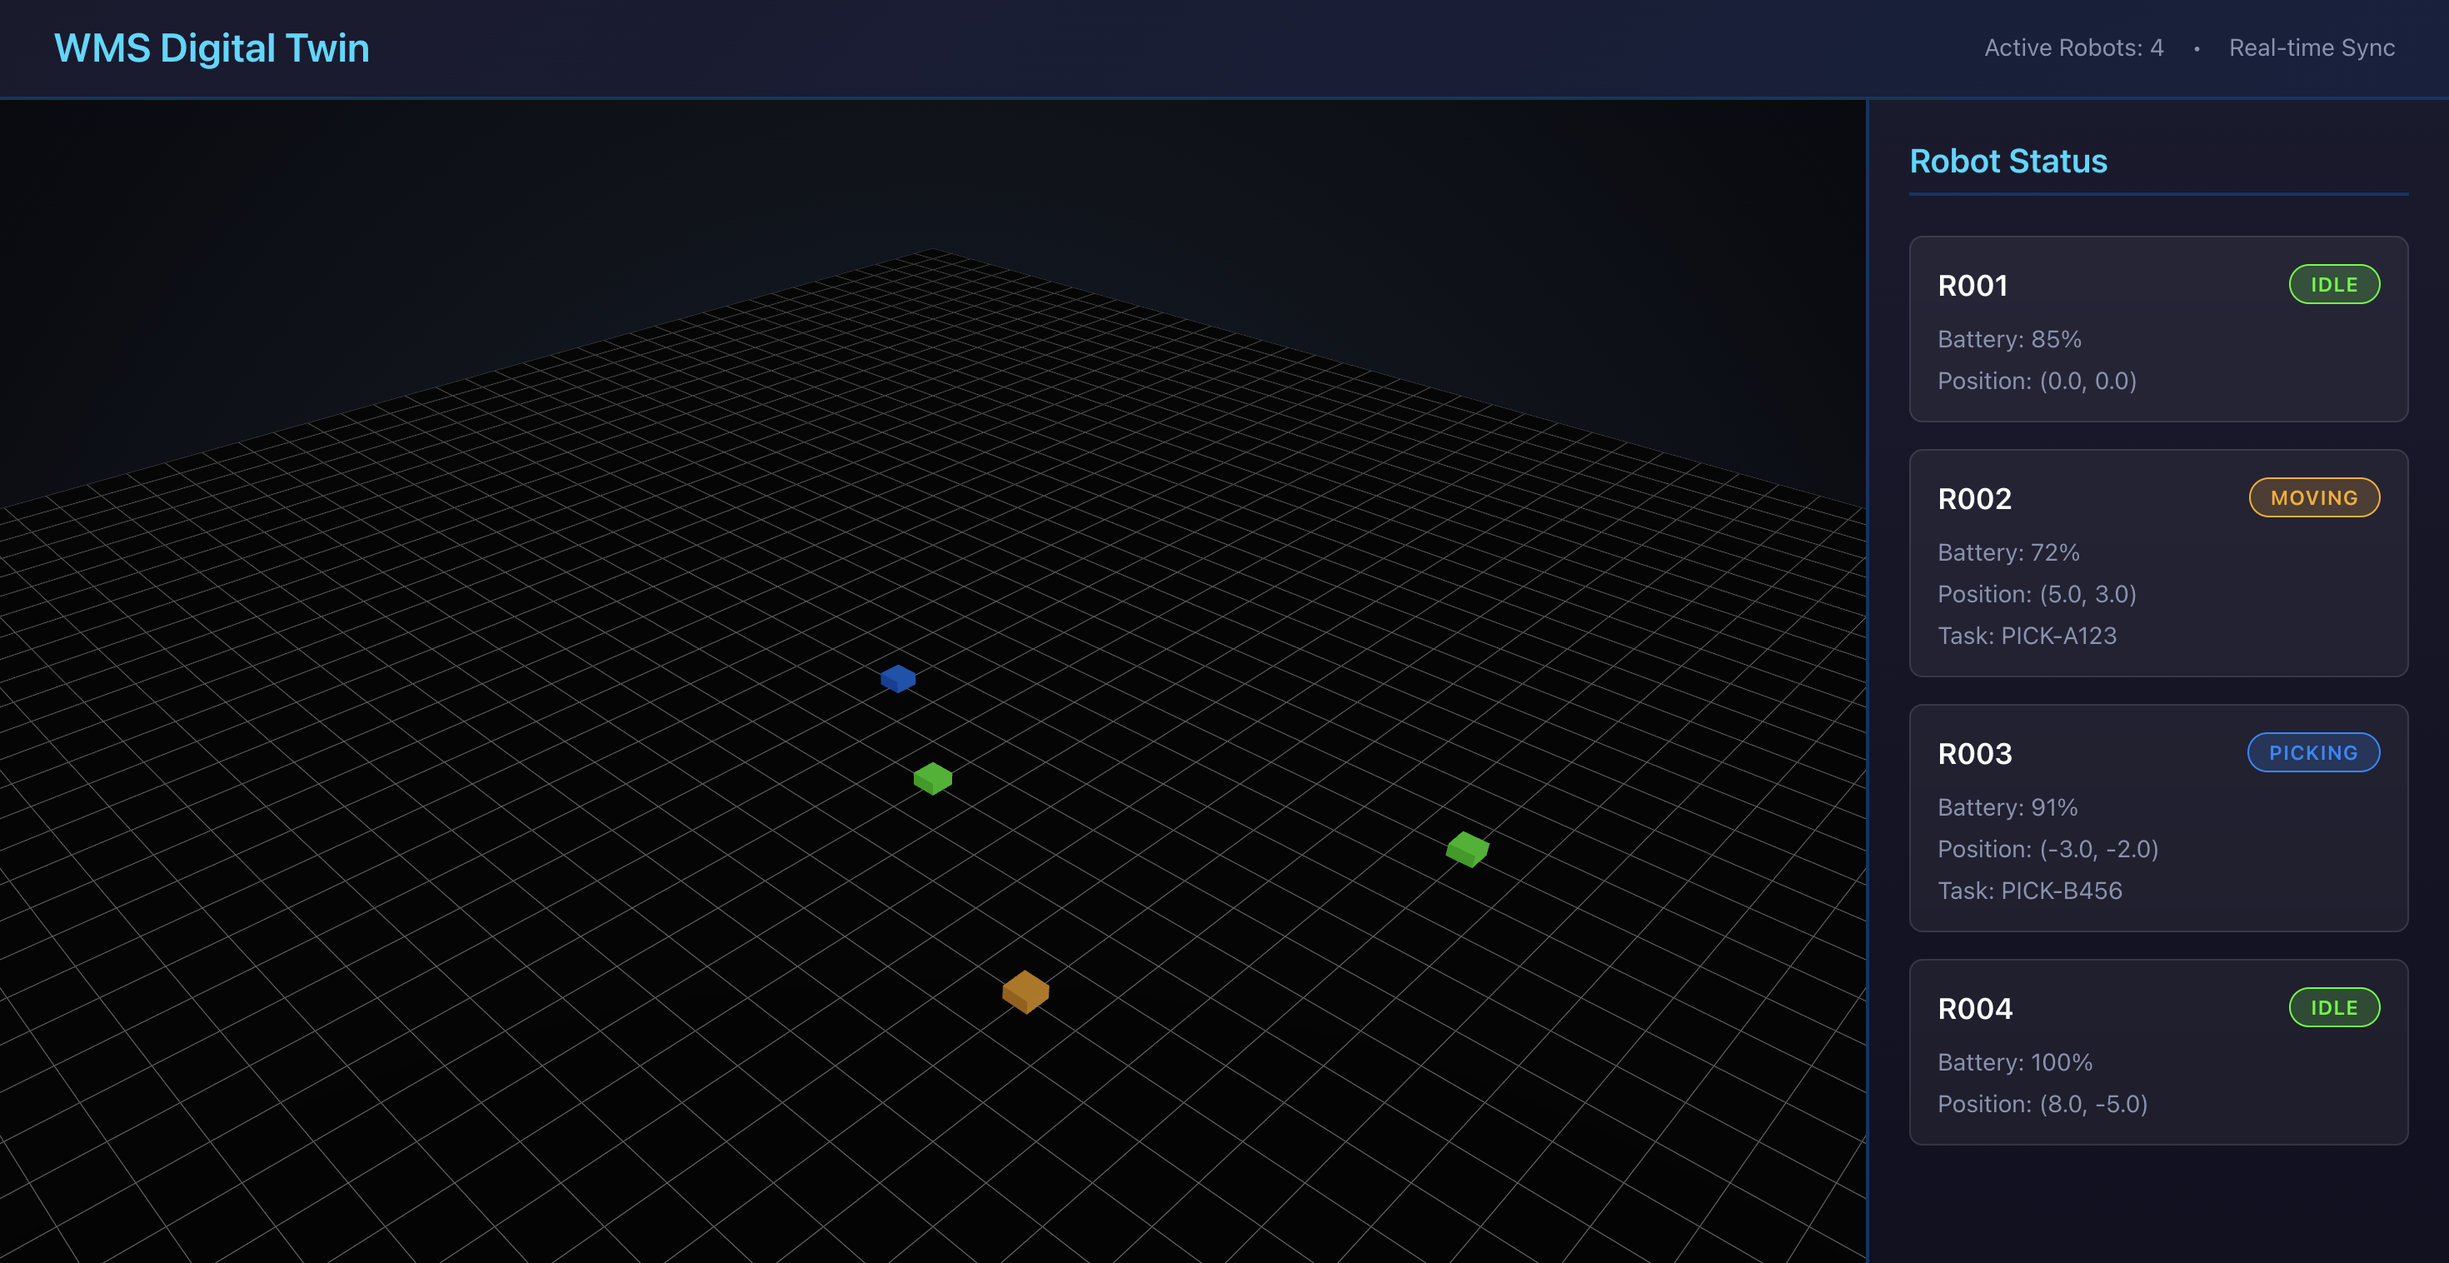
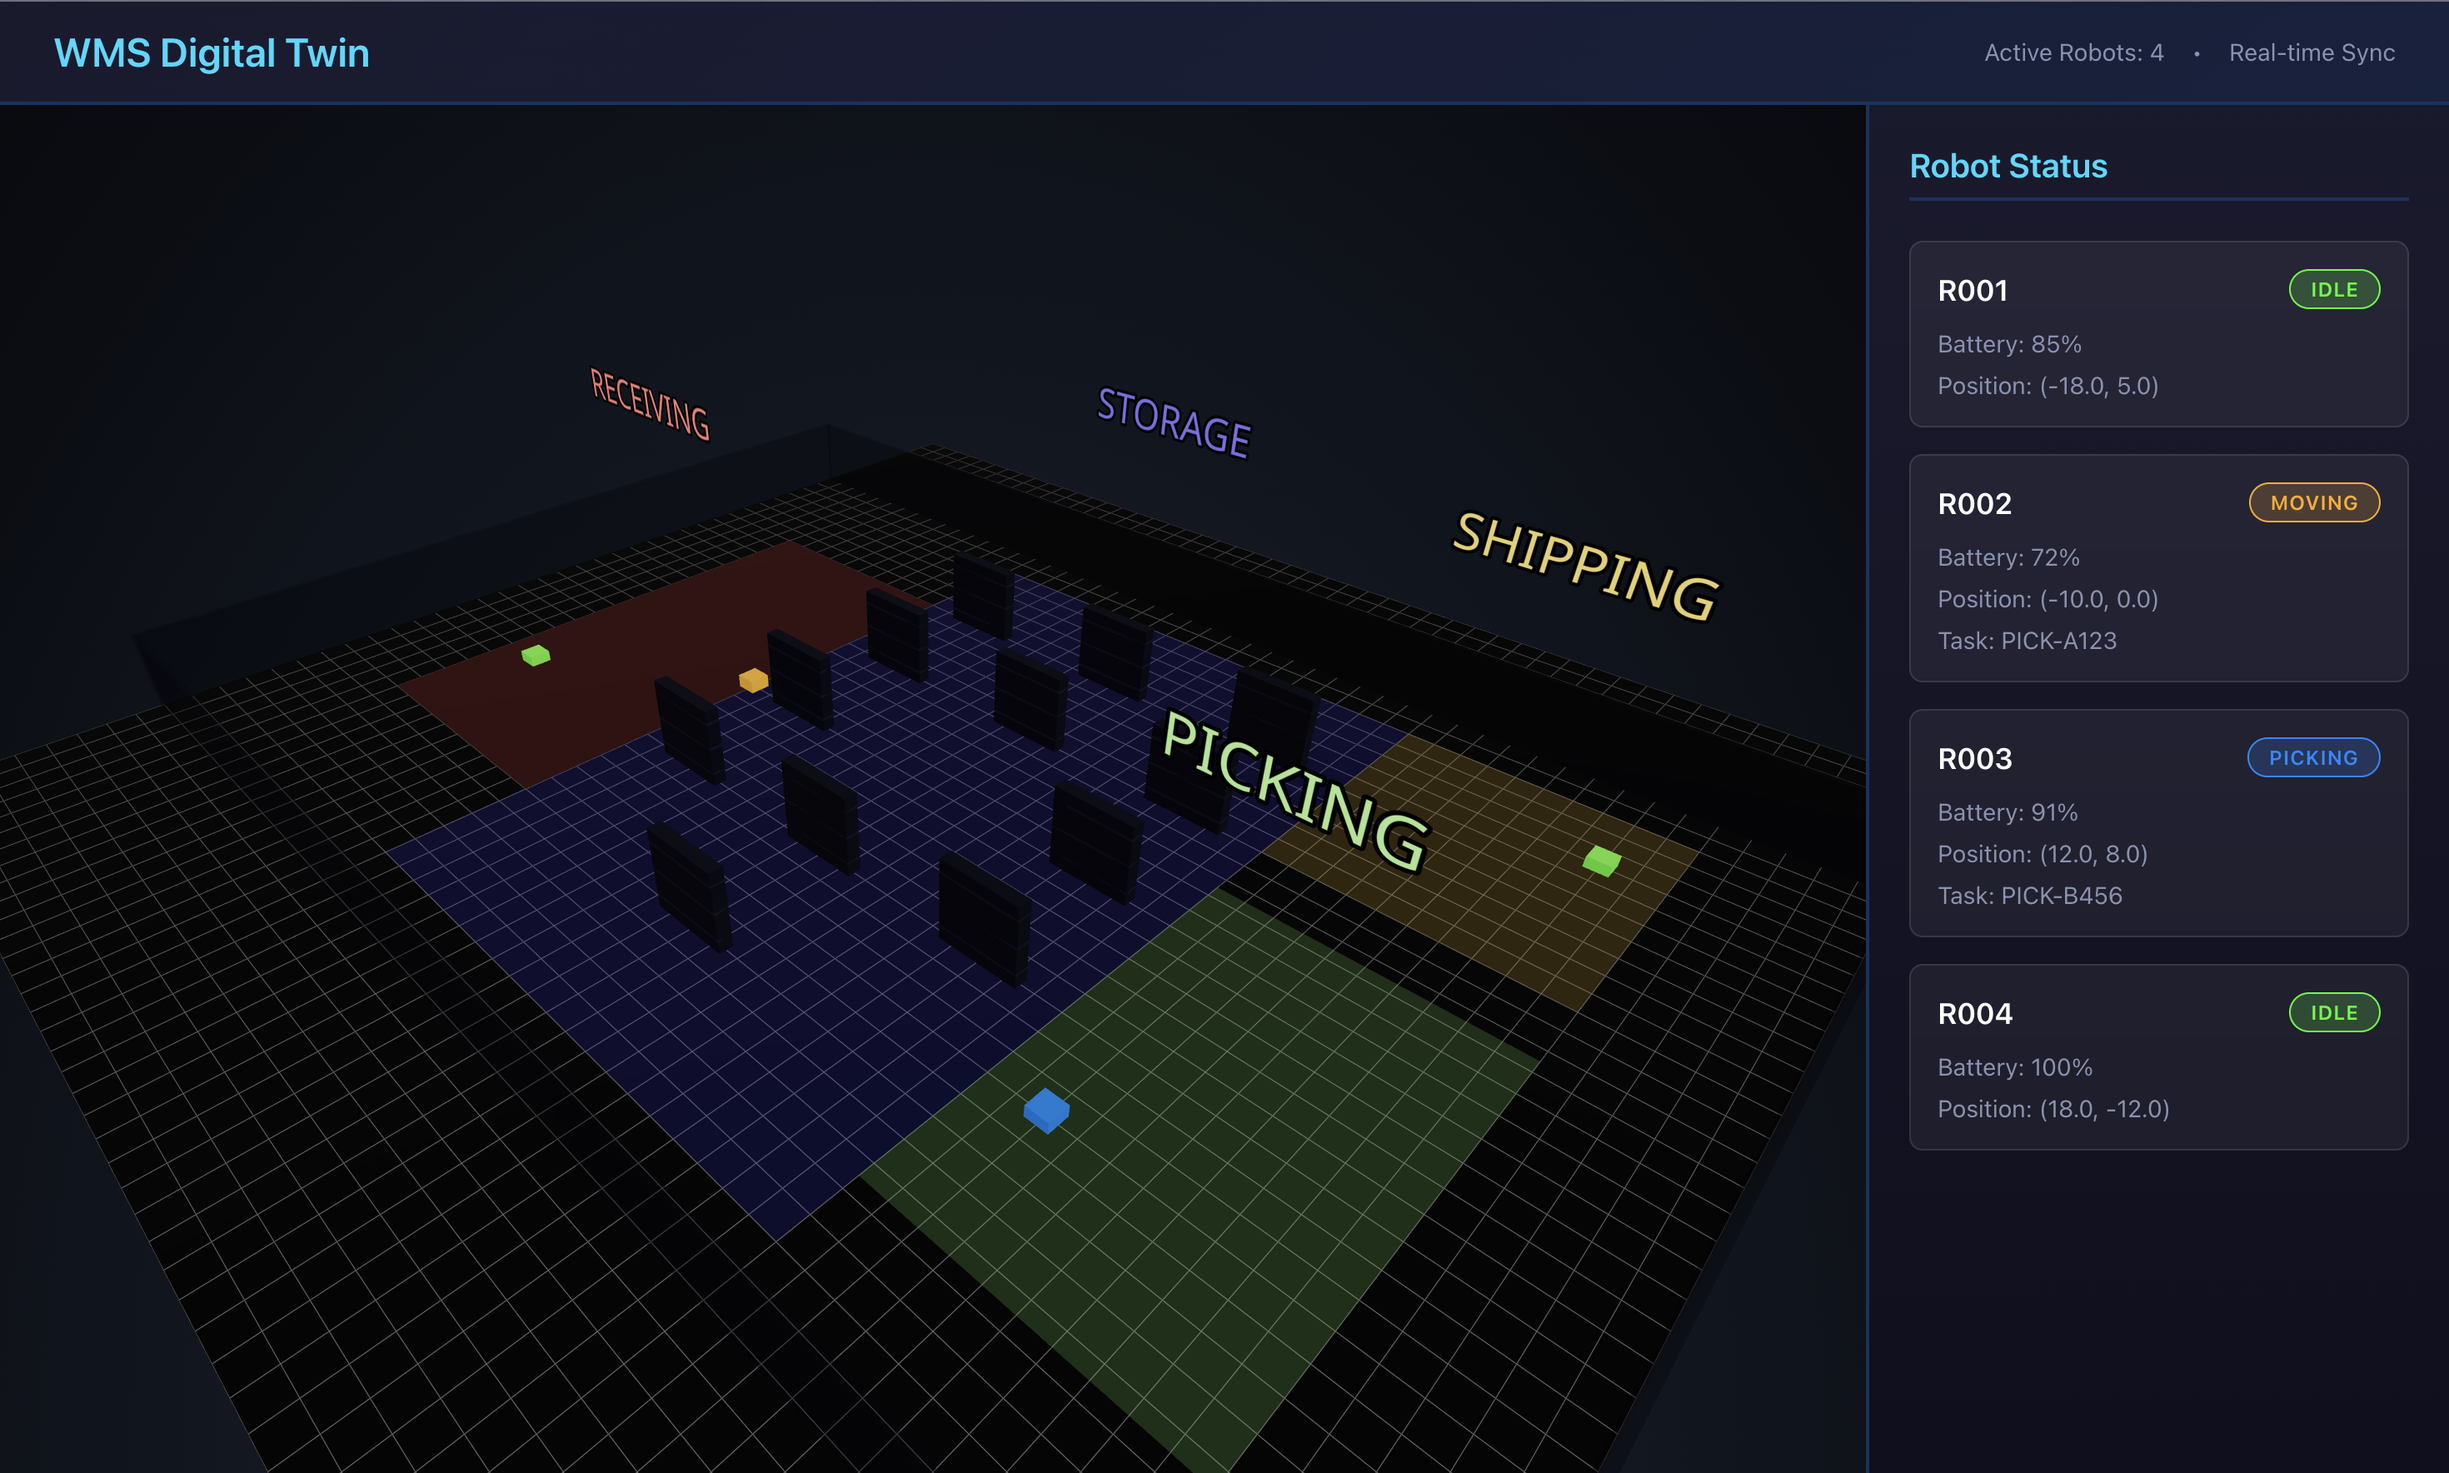
Assets and Fonts Updated

diff --git a/client/src/App.jsx b/client/src/App.jsx
@@ -1,34 +1,311 @@
-[
-  {
-    "id": "R001",
-    "position": [-18.0, 0.0, 5.0],
-    "status": "idle",
-    "battery": 85.0,
-    "current_task": null,
-    "aruco_marker_id": 1
-  },
-  {
-    "id": "R002",
-    "position": [-10.0, 0.0, 0.0],
-    "status": "moving",
-    "battery": 72.0,
-    "current_task": "PICK-A123",
-    "aruco_marker_id": 2
-  },
-  {
-    "id": "R003",
-    "position": [12.0, 0.0, 8.0],
-    "status": "picking",
-    "battery": 91.0,
-    "current_task": "PICK-B456",
-    "aruco_marker_id": 3
-  },
-  {
-    "id": "R004",
-    "position": [18.0, 0.0, -12.0],
-    "status": "idle",
-    "battery": 100.0,
-    "current_task": null,
-    "aruco_marker_id": 4
+import { useState, useEffect, useRef } from 'react'
+import { Canvas, useFrame } from '@react-three/fiber'
+import { OrbitControls, Grid, PerspectiveCamera, Text } from '@react-three/drei'
+import axios from 'axios'
+import './App.css'
+import * as THREE from 'three'
+
+// Robot component with animation
+function Robot({ position, status, id }) {
+  const meshRef = useRef()
+  
+  const color = {
+    idle: '#00ff00',
+    moving: '#ffaa00',
+    picking: '#0088ff',
+    error: '#ff0000'
+  }[status] || '#ffffff'
+
+  // Animate moving robots
+  useFrame((state) => {
+    if (status === 'moving' && meshRef.current) {
+      meshRef.current.position.y = position[1] + Math.sin(state.clock.elapsedTime * 2) * 0.1
+    }
+  })
+
+  return (
+    <mesh ref={meshRef} position={position}>
+      <boxGeometry args={[0.8, 0.8, 0.8]} />
+      <meshStandardMaterial 
+        color={color}
+        emissive={color}
+        emissiveIntensity={0.3}
+      />
+    </mesh>
+  )
+}
+
+// Warehouse floor grid
+function WarehouseFloor() {
+  return (
+    <group>
+      <Grid args={[50, 50]} cellSize={1} cellColor="#444444" sectionColor="#666666" />
+      <mesh rotation={[-Math.PI / 2, 0, 0]} position={[0, -0.01, 0]}>
+        <planeGeometry args={[50, 50]} />
+        <meshStandardMaterial color="#1a1a1a" />
+      </mesh>
+    </group>
+  )
+}
+
+// Storage rack/shelf component
+function StorageRack({ position, size = [2, 3, 0.3] }) {
+  return (
+    <mesh position={position}>
+      <boxGeometry args={size} />
+      <meshStandardMaterial color="#2a2a3e" />
+      {/* Rack shelves */}
+      <mesh position={[0, -1, 0]}>
+        <boxGeometry args={[size[0], 0.1, size[2]]} />
+        <meshStandardMaterial color="#3a3a4e" />
+      </mesh>
+      <mesh position={[0, 0, 0]}>
+        <boxGeometry args={[size[0], 0.1, size[2]]} />
+        <meshStandardMaterial color="#3a3a4e" />
+      </mesh>
+      <mesh position={[0, 1, 0]}>
+        <boxGeometry args={[size[0], 0.1, size[2]]} />
+        <meshStandardMaterial color="#3a3a4e" />
+      </mesh>
+    </mesh>
+  )
+}
+
+// Zone marker (colored floor area)
+function ZoneMarker({ position, size, color }) {
+  return (
+    <group position={position}>
+      <mesh rotation={[-Math.PI / 2, 0, 0]} position={[0, 0.01, 0]}>
+        <planeGeometry args={size} />
+        <meshStandardMaterial 
+          color={color} 
+          transparent 
+          opacity={0.2}
+          emissive={color}
+          emissiveIntensity={0.3}
+        />
+      </mesh>
+    </group>
+  )
+}
+
+// 3D Text label for zones
+function ZoneLabel({ position, text, color }) {
+  return (
+    <Text
+      position={[position[0], position[1] + 10, position[2]]}
+      fontSize={1.5}
+      color={color}
+      anchorX="center"
+      anchorY="middle"
+      outlineWidth={0.1}
+      outlineColor="#000000"
+    >
+      {text}
+    </Text>
+  )
+}
+
+// Wall component
+function WallBoundary({ position, size }) {
+  return (
+    <mesh position={position}>
+      <boxGeometry args={size} />
+      <meshStandardMaterial 
+        color="#1a1a2e" 
+        transparent 
+        opacity={0.4}
+      />
+    </mesh>
+  )
+}
+
+// Complete warehouse layout
+function WarehouseStructure() {
+  return (
+    <group>
+      {/* Receiving Zone (Red) - Left side */}
+      <ZoneMarker 
+        position={[-15, 0, 0]} 
+        size={[10, 20]} 
+        color="#ff4444" 
+      />
+      <ZoneLabel position={[-15, 0.1, 0]} text="RECEIVING" color="#ff6666" />
+      
+      {/* Storage Zone (Blue) - Center with racks */}
+      <ZoneMarker 
+        position={[0, 0, 0]} 
+        size={[20, 30]} 
+        color="#4444ff" 
+      />
+      <ZoneLabel position={[0, 0.1, -12]} text="STORAGE" color="#6666ff" />
+      
+      {/* Storage Racks - Grid layout */}
+      {/* Left column */}
+      <StorageRack position={[-7, 1.5, -10]} size={[3, 3, 0.5]} />
+      <StorageRack position={[-7, 1.5, -5]} size={[3, 3, 0.5]} />
+      <StorageRack position={[-7, 1.5, 0]} size={[3, 3, 0.5]} />
+      <StorageRack position={[-7, 1.5, 5]} size={[3, 3, 0.5]} />
+      
+      {/* Center column */}
+      <StorageRack position={[0, 1.5, -10]} size={[3, 3, 0.5]} />
+      <StorageRack position={[0, 1.5, -5]} size={[3, 3, 0.5]} />
+      <StorageRack position={[0, 1.5, 5]} size={[3, 3, 0.5]} />
+      <StorageRack position={[0, 1.5, 10]} size={[3, 3, 0.5]} />
+      
+      {/* Right column */}
+      <StorageRack position={[7, 1.5, -10]} size={[3, 3, 0.5]} />
+      <StorageRack position={[7, 1.5, -5]} size={[3, 3, 0.5]} />
+      <StorageRack position={[7, 1.5, 0]} size={[3, 3, 0.5]} />
+      <StorageRack position={[7, 1.5, 5]} size={[3, 3, 0.5]} />
+      
+      {/* Picking Zone (Green) - Right side */}
+      <ZoneMarker 
+        position={[15, 0, 5]} 
+        size={[10, 15]} 
+        color="#44ff44" 
+      />
+      <ZoneLabel position={[15, 0.1, 5]} text="PICKING" color="#66ff66" />
+      
+      {/* Shipping Zone (Yellow) - Bottom right */}
+      <ZoneMarker 
+        position={[15, 0, -10]} 
+        size={[10, 10]} 
+        color="#ffaa00" 
+      />
+      <ZoneLabel position={[15, 0.1, -10]} text="SHIPPING" color="#ffcc44" />
+      
+      {/* Warehouse walls */}
+      <WallBoundary position={[0, 1.5, -17]} size={[50, 3, 0.2]} />
+      <WallBoundary position={[0, 1.5, 17]} size={[50, 3, 0.2]} />
+      <WallBoundary position={[-25, 1.5, 0]} size={[0.2, 3, 34]} />
+      <WallBoundary position={[25, 1.5, 0]} size={[0.2, 3, 34]} />
+    </group>
+  )
+}
+
+// Main 3D Scene
+function Scene({ robots }) {
+  return (
+    <>
+      <PerspectiveCamera makeDefault position={[25, 25, 25]} fov={60} />
+      <OrbitControls 
+        enableDamping 
+        dampingFactor={0.05}
+        minDistance={5}
+        maxDistance={80}
+        maxPolarAngle={Math.PI / 2.2}
+      />
+      
+      <ambientLight intensity={0.4} />
+      <directionalLight position={[20, 20, 10]} intensity={1} castShadow />
+      <directionalLight position={[-20, 10, -10]} intensity={0.3} />
+      
+      <WarehouseFloor />
+      <WarehouseStructure />
+      
+      {robots.map(robot => (
+        <Robot 
+          key={robot.id}
+          position={robot.position}
+          status={robot.status}
+          id={robot.id}
+        />
+      ))}
+    </>
+  )
+}
+
+// Side panel with robot info
+function RobotPanel({ robots }) {
+  return (
+    <div className="robot-panel">
+      <h2>Robot Status</h2>
+      <div className="robot-list">
+        {robots.map(robot => (
+          <div key={robot.id} className="robot-card">
+            <div className="robot-header">
+              <span className="robot-id">{robot.id}</span>
+              <span className={`status-badge status-${robot.status}`}>
+                {robot.status}
+              </span>
+            </div>
+            <div className="robot-details">
+              <div>Battery: {robot.battery}%</div>
+              <div>Position: ({robot.position[0].toFixed(1)}, {robot.position[2].toFixed(1)})</div>
+              {robot.current_task && <div>Task: {robot.current_task}</div>}
+            </div>
+          </div>
+        ))}
+      </div>
+    </div>
+  )
+}
+
+// Main App component
+function App() {
+  const [robots, setRobots] = useState([])
+  const [loading, setLoading] = useState(true)
+  const [error, setError] = useState(null)
+
+  useEffect(() => {
+    const fetchRobots = async () => {
+      try {
+        const response = await axios.get('http://localhost:8000/api/robots/')
+        setRobots(response.data)
+        setLoading(false)
+      } catch (err) {
+        console.error('Failed to fetch robots:', err)
+        setError('Failed to connect to backend. Make sure FastAPI is running on port 8000.')
+        setLoading(false)
+        
+        // Fallback mock data
+        setRobots([
+          { id: 'R001', position: [-18, 0, 5], status: 'idle', battery: 85, current_task: null, aruco_marker_id: 1 },
+          { id: 'R002', position: [-10, 0, 0], status: 'moving', battery: 72, current_task: 'PICK-A123', aruco_marker_id: 2 },
+          { id: 'R003', position: [12, 0, 8], status: 'picking', battery: 91, current_task: 'PICK-B456', aruco_marker_id: 3 },
+          { id: 'R004', position: [18, 0, -12], status: 'idle', battery: 100, current_task: null, aruco_marker_id: 4 },
+        ])
+      }
+    }
+
+    fetchRobots()
+    const interval = setInterval(fetchRobots, 2000)
+    return () => clearInterval(interval)
+  }, [])
+
+  if (loading) {
+    return <div className="loading">Loading warehouse data...</div>
   }
-]
+
+  return (
+    <div className="app">
+      <header className="header">
+        <h1>WMS Digital Twin</h1>
+        <div className="header-stats">
+          <span>Active Robots: {robots.length}</span>
+          <span>•</span>
+          <span>Real-time Sync</span>
+        </div>
+      </header>
+
+      {error && (
+        <div className="error-banner">
+          ⚠ {error} (Using mock data)
+        </div>
+      )}
+
+      <div className="main-container">
+        <div className="canvas-container">
+          <Canvas shadows>
+            <Scene robots={robots} />
+          </Canvas>
+        </div>
+        
+        <RobotPanel robots={robots} />
+      </div>
+    </div>
+  )
+}
+
+export default App
